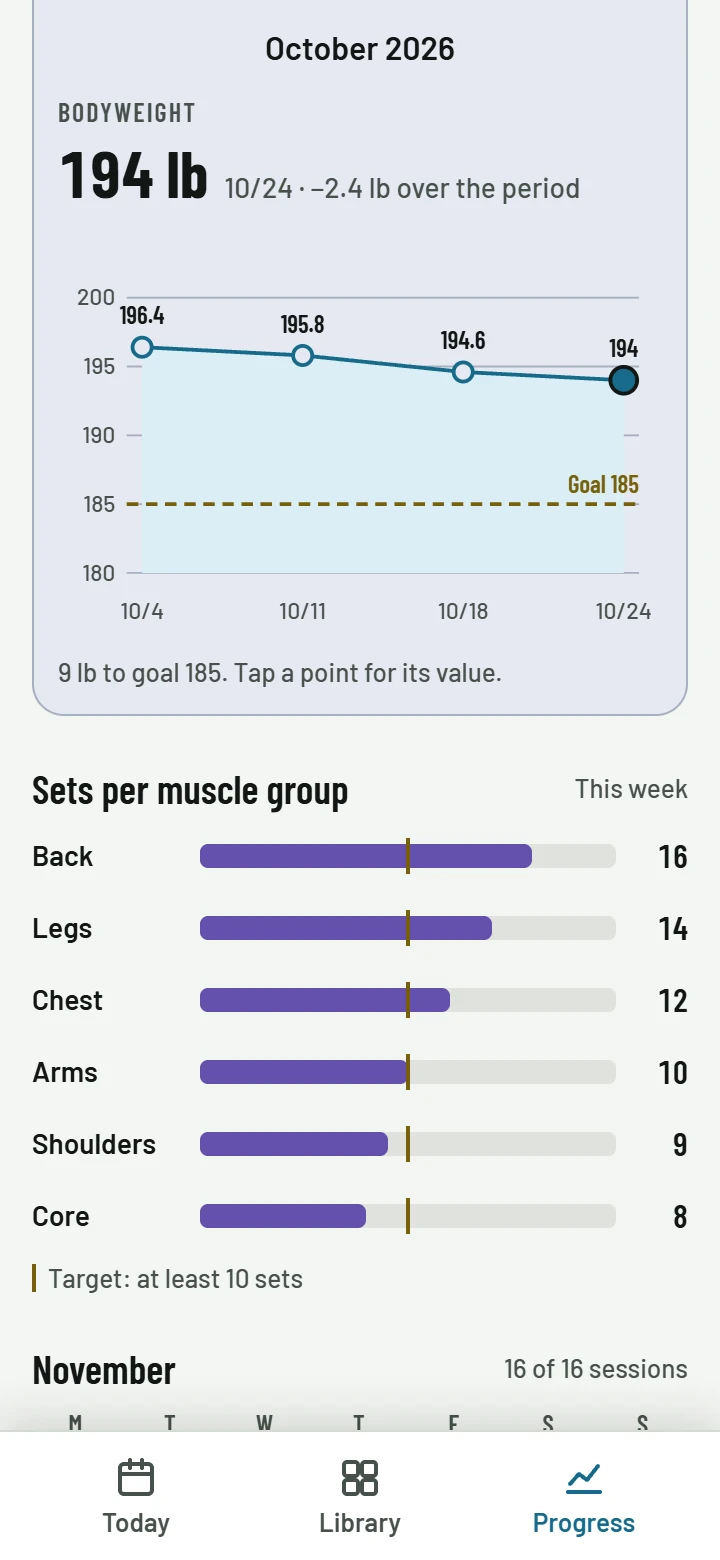
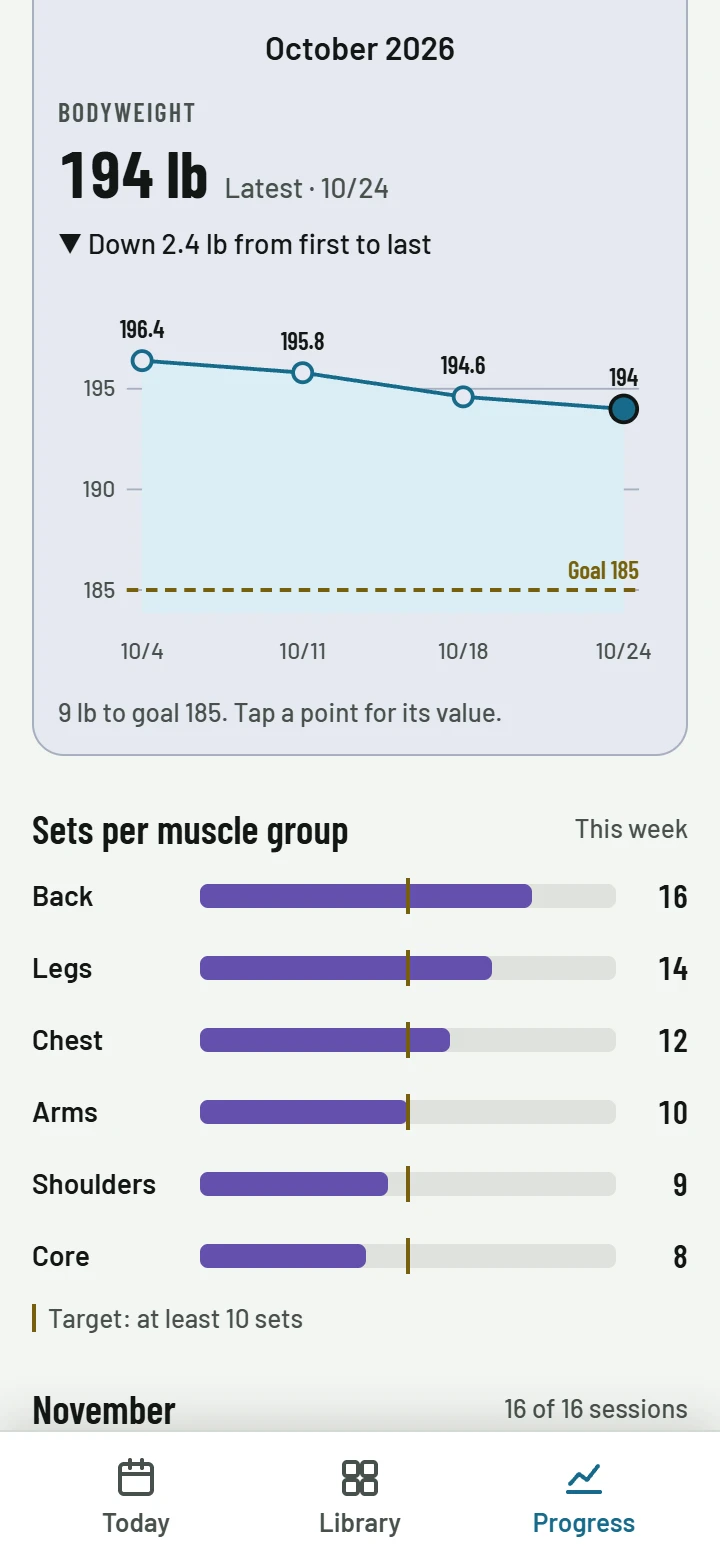
Release 0.6.1
The Lift tab redesign and data fixes: the latest value as the chart
headline with a first-to-last change line; y-axes never below 0 with
~10% padding; "Your lifts" under the chart; a Pounds / % gain switch
(up to five lifts on one chart); deleting a logged set from history with
Undo. Version 0.6.0 -> 0.6.1 in package.json, package-lock.json and
pyproject.toml; the changelog's Unreleased section becomes 0.6.1
(2026-11-23). No database migration.

README: status line names the Lift tab and deleting a set; two Progress
screenshots regenerated (the new readout), with matching alt text.

diff --git a/README.md b/README.md
@@ -1,7 +1,7 @@
 # heavenly-restriction
 A self-hosted workout tracker for training hard within injury limits. FastAPI + PWA, offline logging, passkey login, private by design.
 
-**Status:** early build. Program import, today's session, set logging (add or remove sets for today, Skip, swap in any library exercise, cardio logged as done, automatic workout timing, and a rest timer you set to off, after every set or after each exercise), the library, exercise cards, progress and passkey sign-in work on real data; program editing and media upload are not built yet.
+**Status:** early build. Program import, today's session, set logging (add or remove sets for today, Skip, swap in any library exercise, cardio logged as done, automatic workout timing, and a rest timer you set to off, after every set or after each exercise), the library, exercise cards (delete a set from history, with Undo), progress (a Lift tab listing every lift, in pounds or as a % gain comparison of up to five) and passkey sign-in work on real data; program editing and media upload are not built yet.
 
 <table>
   <tr>
@@ -16,7 +16,7 @@ A self-hosted workout tracker for training hard within injury limits. FastAPI + 
   </tr>
   <tr>
     <td align="center" width="33%"><a href="docs/screenshots/progress.webp"><img src="docs/screenshots/progress.webp" width="240" alt="Progress: 1 of 5 sessions this week, 150 of 345 cardio minutes, and the bodyweight chart"></a><br><b>Progress</b><br><sub>Sessions, cardio and bodyweight</sub></td>
-    <td align="center" width="33%"><a href="docs/screenshots/progress-chart.webp"><img src="docs/screenshots/progress-chart.webp" width="240" alt="Bodyweight chart for October with a dashed goal line at 185, and sets per muscle group this week"></a><br><b>Bodyweight and sets</b><br><sub>Goal line, sets per muscle group</sub></td>
+    <td align="center" width="33%"><a href="docs/screenshots/progress-chart.webp"><img src="docs/screenshots/progress-chart.webp" width="240" alt="Bodyweight chart for October: the latest weight as the headline, its change from first to last, a dashed goal line at 185, and sets per muscle group this week"></a><br><b>Bodyweight and sets</b><br><sub>Goal line, sets per muscle group</sub></td>
     <td align="center" width="33%"><a href="docs/screenshots/progress-calendar.webp"><img src="docs/screenshots/progress-calendar.webp" width="240" alt="November calendar with done, cardio and recovery days, the legend, and a recent personal record"></a><br><b>Calendar and records</b><br><sub>Done, cardio, recovery and PRs</sub></td>
   </tr>
 </table>

diff --git a/CHANGELOG.md b/CHANGELOG.md
@@ -7,6 +7,8 @@ change how things work.
 
 ## [Unreleased]
 
+## [0.6.1] - 2026-11-23
+
 ### Added
 - Progress › Lift lists "Your lifts": every exercise logged in the period, most recently logged
   first, each with its latest est. 1RM (or assistance, "lower is better"), the change over the
@@ -319,7 +321,8 @@ change how things work.
 - A FastAPI server that serves the app and its API from one origin, with secret scanning, linting
   and tests set up from the start.
 
-[Unreleased]: https://github.com/CLochstampfor60/heavenly-restriction/compare/v0.6.0...HEAD
+[Unreleased]: https://github.com/CLochstampfor60/heavenly-restriction/compare/v0.6.1...HEAD
+[0.6.1]: https://github.com/CLochstampfor60/heavenly-restriction/compare/v0.6.0...v0.6.1
 [0.6.0]: https://github.com/CLochstampfor60/heavenly-restriction/compare/v0.5.1...v0.6.0
 [0.5.1]: https://github.com/CLochstampfor60/heavenly-restriction/compare/v0.5.0...v0.5.1
 [0.5.0]: https://github.com/CLochstampfor60/heavenly-restriction/compare/v0.4.1...v0.5.0
